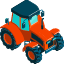
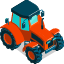
basic implementation

diff --git a/src/scenes/tile-scene.ts b/src/scenes/tile-scene.ts
@@ -1,9 +1,12 @@
 import CursorKeys = Phaser.Types.Input.Keyboard.CursorKeys;
 import {IsoImage} from "../objects/isoImage";
+import Image = Phaser.GameObjects.Image;
+import Point = Phaser.Geom.Point;
+import Sprite = Phaser.GameObjects.Sprite;
 
 export class TileScene extends Phaser.Scene {
 
-    private TILEMAP_SIZE = 10;
+    private TILEMAP_SIZE = 40;
     private TILE_SIZE = 64;
     private PLAYER_START_POSITION = {x: 400, y: 300};
 
@@ -18,13 +21,17 @@ export class TileScene extends Phaser.Scene {
 
     private cartesianPoints: Phaser.Geom.Point[] = [];
 
-    private graphics: Phaser.GameObjects.Graphics;
+    private logicPlayer: Phaser.GameObjects.Image;
 
-    private player: Phaser.GameObjects.Image;
+    private renderPlayer: Phaser.GameObjects.Sprite;
 
     private groundLayer: Phaser.GameObjects.Layer;
 
-    private objectsLayer: Phaser.GameObjects.Layer;
+    private renderObjectsLayer: Phaser.GameObjects.Layer;
+
+    private collisionGroup: Phaser.Physics.Arcade.Group;
+
+    private facing = 1;
 
     constructor() {
         super({key: 'TileScene'});
@@ -34,19 +41,63 @@ export class TileScene extends Phaser.Scene {
         this.load.image('ground', '../assets/ground.png');
         this.load.image('grass', '../assets/grass.png');
         this.load.image('tractor', '../assets/tractor.png');
-        this.load.image('corn', '../assets/corn.png');
+        this.load.image('corn', '../assets/corn_ball.png');
+        this.load.image('ground_1', '../assets/ground_1.png');
+        this.load.image('ground_2', '../assets/ground_2.png');
+
+        this.load.image('cartDebugObject', '../assets/cartDebugObject.png');
+        this.load.image('cartDebugPlayer', '../assets/cartDebugPlayer.png');
+
+        this.load.atlas('tractorAnimations', '../assets/spritesheets/tractorMove.png', '../assets/spritesheets/tractorMove.json');
+
     }
 
     create(): void {
         this.cursors = this.input.keyboard.createCursorKeys();
+        this.collisionGroup = this.physics.add.group();
 
         this.createCartesianTilePoints();
         this.updateCartesianTilePoints();
+
+        this.anims.create({
+            key: 'move',
+            frames: this.anims.generateFrameNames('tractorAnimations', {start: 1, end: 6, zeroPad: 4, prefix: 'move/move', suffix: '.png'}),
+            repeat: -1,
+            frameRate: 12
+        })
+
+        this.anims.create({
+            key: 'idle',
+            frames: this.anims.generateFrameNames('tractorAnimations', {start: 1, end: 1, zeroPad: 4, prefix: 'idle/idle', suffix: '.png'}),
+            repeat: -1,
+            frameRate: 12
+        })
 
         // this.addCartesianPlayer();
         this.createLayers();
         this.addGroundTiles();
         this.addObjectTiles();
+        this.addPlayer();
+
+        this.physics.add.overlap(this.logicPlayer, this.collisionGroup, this.handlePlayerCollision, null, this);
+    }
+
+    private handlePlayerCollision(player: any, object: any) {
+        console.log('collision');
+        const index = object.data.get('cartesianIndex');
+        if (object) {
+            object.destroy();
+            const displayObject = this.renderObjectsLayer.getChildren().filter((child: IsoImage) => {
+                if (child.name === 'tractor') {
+                    return false;
+                }
+
+                return child.getCartesianPointIndex() === index;
+            });
+            if (displayObject) {
+                displayObject[0].destroy()
+            }
+        }
     }
 
 
@@ -60,7 +111,7 @@ export class TileScene extends Phaser.Scene {
 
     private createLayers() {
         this.groundLayer = this.add.layer();
-        this.objectsLayer = this.add.layer();
+        this.renderObjectsLayer = this.add.layer();
     }
 
     private updateCartesianTilePoints() {
@@ -77,25 +128,25 @@ export class TileScene extends Phaser.Scene {
 
 
             if (point.x < resetPointMinXCart) {
-                const offset = resetPointMinXCart - point.x;
+                const offset = Math.floor(resetPointMinXCart - point.x);
                 const newPointX = this.TILEMAP_SIZE * this.TILE_SIZE
                 point.x = newPointX - offset;
             }
 
             if (point.x > resetPointMaxXCart) {
-                const offset = resetPointMaxXCart - point.x;
+                const offset = Math.floor(resetPointMaxXCart - point.x);
                 const newPointX = 0;
                 point.x = newPointX - offset;
             }
 
             if (point.y < resetPointMinYCart) {
-                const offset = resetPointMinYCart - point.y;
+                const offset = Math.floor(resetPointMinYCart - point.y);
                 const newPointY = this.TILEMAP_SIZE * this.TILE_SIZE;
                 point.y = newPointY - offset;
             }
 
             if (point.y > resetPointMaxYCart) {
-                const offset = resetPointMaxYCart - point.y;
+                const offset = Math.floor(resetPointMaxYCart - point.y);
                 const newPointY = 0;
                 point.y = newPointY - offset;
             }
@@ -103,21 +154,21 @@ export class TileScene extends Phaser.Scene {
         });
     }
 
-    private addCartesianPlayer() {
-        this.add.rectangle(this.playerPosition.x, this.playerPosition.y, 64, 64, 0x00ff00);
+    private updateLogic() {
+        this.collisionGroup.getChildren().forEach((object) => {
+            const coordinate = this.cartesianPoints[object.data.get('cartesianIndex')];
+            const body = object.body as Phaser.Physics.Arcade.Body;
+            body.x = coordinate.x;
+            body.y = coordinate.y;
+        });
     }
 
     private addGroundTiles() {
         this.cartesianPoints.forEach((point) => {
-            const texture = Phaser.Math.RND.pick(['ground', 'grass']);
+            const texture = Phaser.Math.RND.pick(['ground_2', 'ground_1']);
             const isoPoint = this.cartesianToIsometric(point);
             this.groundLayer.add(this.make.image({x: (isoPoint.x - 32), y: (isoPoint.y - 18), key: texture}))
         });
-
-        this.player = new IsoImage({scene: this, x: this.playerPosition.x - 50, y: this.playerPosition.y - 50, texture: 'tractor'}, -1);
-
-        // Player
-        this.objectsLayer.add(this.player);
     }
 
     /**
@@ -128,27 +179,70 @@ export class TileScene extends Phaser.Scene {
         const seed = (this.TILEMAP_SIZE * this.TILEMAP_SIZE).toString();
         Phaser.Math.RND.sow([seed]);
 
-        const numberOfRandomIndices = 50;
-        const originalArray = this.cartesianPoints;
-        const randomIndicesArray = [];
+        const numberOfRandomIndices = 25;
+        const originalArray = this.cartesianPoints.slice();
+        const randomIndicesArray: number[] = [];
 
         for (let i = 0; i < numberOfRandomIndices; i++) {
             const randomIndex = Phaser.Math.RND.integerInRange(0, originalArray.length - 1);
-            randomIndicesArray.push(randomIndex);
+            originalArray.splice(randomIndex, 1);
+            if (randomIndicesArray.indexOf(randomIndex) === -1) {
+                randomIndicesArray.push(randomIndex);
+            }
         }
-
+        console.log(randomIndicesArray);
         return randomIndicesArray;
     }
 
     private addObjectTiles() {
-
+        // Tiles to be populated...
         const objectPositionIndices = this.getRandomCartesianPoints();
+
+
         objectPositionIndices.forEach((index) => {
+            // Create logic representation
+
+            const logicObject = this.physics.add.image(this.cartesianPoints[index].x, this.cartesianPoints[index].y, 'cartDebugObject');
+            logicObject.setDataEnabled();
+            logicObject.data.set('cartesianIndex', index);
+            const body = logicObject.body as Phaser.Physics.Arcade.Body;
+            body.setSize(64, 64);
+            logicObject.alpha = 0.2;
+            this.collisionGroup.add(logicObject);
+
+            // Create render representation
             const isoPoint = this.cartesianToIsometric(this.cartesianPoints[index]);
-            const object = new IsoImage({scene: this, x: (isoPoint.x - 32), y: (isoPoint.y - 32), texture: 'corn'}, index);
-            this.objectsLayer.add(object);
+            const renderObject = new IsoImage({scene: this, x: (isoPoint.x - 32), y: (isoPoint.y - 32), texture: 'corn'}, index);
+            this.renderObjectsLayer.add(renderObject);
         });
     }
+
+    private addPlayer() {
+        const ROW = 10;
+        const DEPTH = 10;
+        const cartPlayerPosition = this.cartesianPoints[(ROW * 40) + ROW + DEPTH];
+
+        this.logicPlayer = this.physics.add.image(cartPlayerPosition.x + 32, cartPlayerPosition.y + 32, 'cartDebugPlayer');
+
+        const body = this.logicPlayer.body as Phaser.Physics.Arcade.Body;
+        body.setSize(64, 64);
+//        body.x = cartPlayerPosition.x;
+//        body.y = cartPlayerPosition.y;
+
+        this.physics.add.existing(this.logicPlayer);
+
+        const renderPlayerPosition = this.cartesianToIsometric(cartPlayerPosition);
+
+        const x = (5 * 64) + (renderPlayerPosition.x);
+        const y = (renderPlayerPosition.y - 18);
+
+        this.renderPlayer = new Sprite(this, x, y, 'tractorAnimations', 'idle/idle0001.png');
+        this.renderPlayer.name = 'tractor';
+
+        // this.renderPlayer = new IsoImage({scene: this, x: (5 * 64) + (renderPlayerPosition.x), y: (renderPlayerPosition.y - 18), texture: 'tractor'}, -1);
+        this.renderObjectsLayer.add(this.renderPlayer);
+    }
+
 
     private updateInput() {
 
@@ -158,65 +252,62 @@ export class TileScene extends Phaser.Scene {
 
             if (this.cursors.up.isDown) {
                 this.moveDir.y = -1;
-                this.player.scaleX = -1;
+                this.facing = -1;
+                this.renderPlayer.scaleX = -1;
+
+                this.renderPlayer.play('move', true);
             }
 
             if (this.cursors.down.isDown) {
                 this.moveDir.y = 1;
-                this.player.scaleX = -1;
+                this.facing = -1;
+                this.renderPlayer.scaleX = -1;
+
+                this.renderPlayer.play('move', true);
             }
 
             if (this.cursors.left.isDown) {
                 this.moveDir.x = 1;
-                this.player.scaleX = 1;
+                this.facing = 1;
+                this.renderPlayer.scaleX = 1;
+
+                this.renderPlayer.play('move', true);
             }
 
             if (this.cursors.right.isDown) {
                 this.moveDir.x = -1;
-                this.player.scaleX = 1;
+                this.facing = 1;
+                this.renderPlayer.scaleX = 1;
+
+                this.renderPlayer.play('move', true);
+            }
+
+            if (this.moveDir.x === 0 && this.moveDir.y === 0) {
+                this.renderPlayer.play('idle', true);
             }
         }
     }
 
-    update() {
+    update(time: number, delta: number) {
         this.updateInput();
         this.updateCartesianTilePoints();
+        this.updateLogic();
+
         // this.debugPoints();
         this.depthSortIsometrics();
-        this.renderIsometric();
-    }
-
-    private debugPoints() {
-        this.graphics.clear();
-        this.cartesianPoints.forEach((point) => {
-            this.graphics.fillPointShape(point, 4);
-
-            const dist = Phaser.Math.Distance.BetweenPoints(this.playerPosition, point);
-
-            // Define your minimum and maximum distances for alpha interpolation
-            let minDistance = 100; // Adjust this based on your needs
-            let maxDistance = 300; // Adjust this based on your needs
-
-            // Interpolate the alpha value based on the distance
-            let normalizedDistance = Phaser.Math.Clamp((dist - minDistance) / (maxDistance - minDistance), 0, 1);
-            let interpolatedAlpha = 1 - normalizedDistance;
-
-            this.graphics.fillStyle(0xff0000, interpolatedAlpha);
-
-            this.graphics.fillRect(point.x - this.TILE_SIZE * .5, point.y - this.TILE_SIZE * .5, this.TILE_SIZE, this.TILE_SIZE);
-        });
+        this.renderIsometric(delta);
     }
 
     private cartesianToIsometric(cartPt: Phaser.Geom.Point) {
         const tempPt = new Phaser.Geom.Point(0, 0);
-        tempPt.x = (cartPt.x - cartPt.y) / 2;
-        tempPt.y = (cartPt.x + cartPt.y) / 4;
+        tempPt.x = Math.floor((cartPt.x - cartPt.y) / 2);
+        tempPt.y = Math.floor((cartPt.x + cartPt.y) / 4);
         return tempPt;
     }
 
 
     private depthSortIsometrics() {
-        this.objectsLayer.sort('y', function(a : any, b : any) {
+        this.renderObjectsLayer.sort('y', function (a: any, b: any) {
             if (a.y < b.y) {
                 return -1;
             }
@@ -228,7 +319,7 @@ export class TileScene extends Phaser.Scene {
 
     };
 
-    private renderIsometric() {
+    private renderIsometric(delta: number) {
         // this.graphics.clear();
         this.cartesianPoints.forEach((point, i) => {
             // ground
@@ -239,11 +330,11 @@ export class TileScene extends Phaser.Scene {
         });
 
         // Update objects
-        this.objectsLayer.getChildren().forEach((object) => {
+        this.renderObjectsLayer.getChildren().forEach((object) => {
             const isoImage = object as IsoImage;
 
             // do not apply coordinates to the player
-            if(isoImage.texture.key === 'tractor') {
+            if (isoImage.name === 'tractor') {
                 return;
             }
 
@@ -252,7 +343,15 @@ export class TileScene extends Phaser.Scene {
             isoImage.y = (isoPoint.y - 18);
         });
 
-
+        if (this.moveDir.x === 0 && this.moveDir.y === 0) {
+            {
+            }
+            this.renderPlayer.scaleX = this.facing + (0.05 * Math.sin(this.time.now / 1000));
+            this.renderPlayer.scaleY = 1 + (0.12 * Math.sin(this.time.now / 1000));
+        } else {
+            this.renderPlayer.scaleX = this.facing + (0.05 * Math.sin(this.time.now / 100));
+            this.renderPlayer.scaleY = 1 + (0.08 * Math.sin(this.time.now / 100));
+        }
 
     }
 }

diff --git a/src/config.ts b/src/config.ts
@@ -5,7 +5,13 @@ export const GameConfig: Phaser.Types.Core.GameConfig = {
   type: Phaser.AUTO,
   width: 800,
   height: 600,
-  backgroundColor: '#2d2d2d',
+  backgroundColor: '#fbff66',
   parent: 'game',
-  scene: [TileScene]
+  scene: [TileScene],
+  physics: {
+    default: 'arcade',
+    arcade: {
+        gravity: { y: 0 },
+    }
+  }
 };